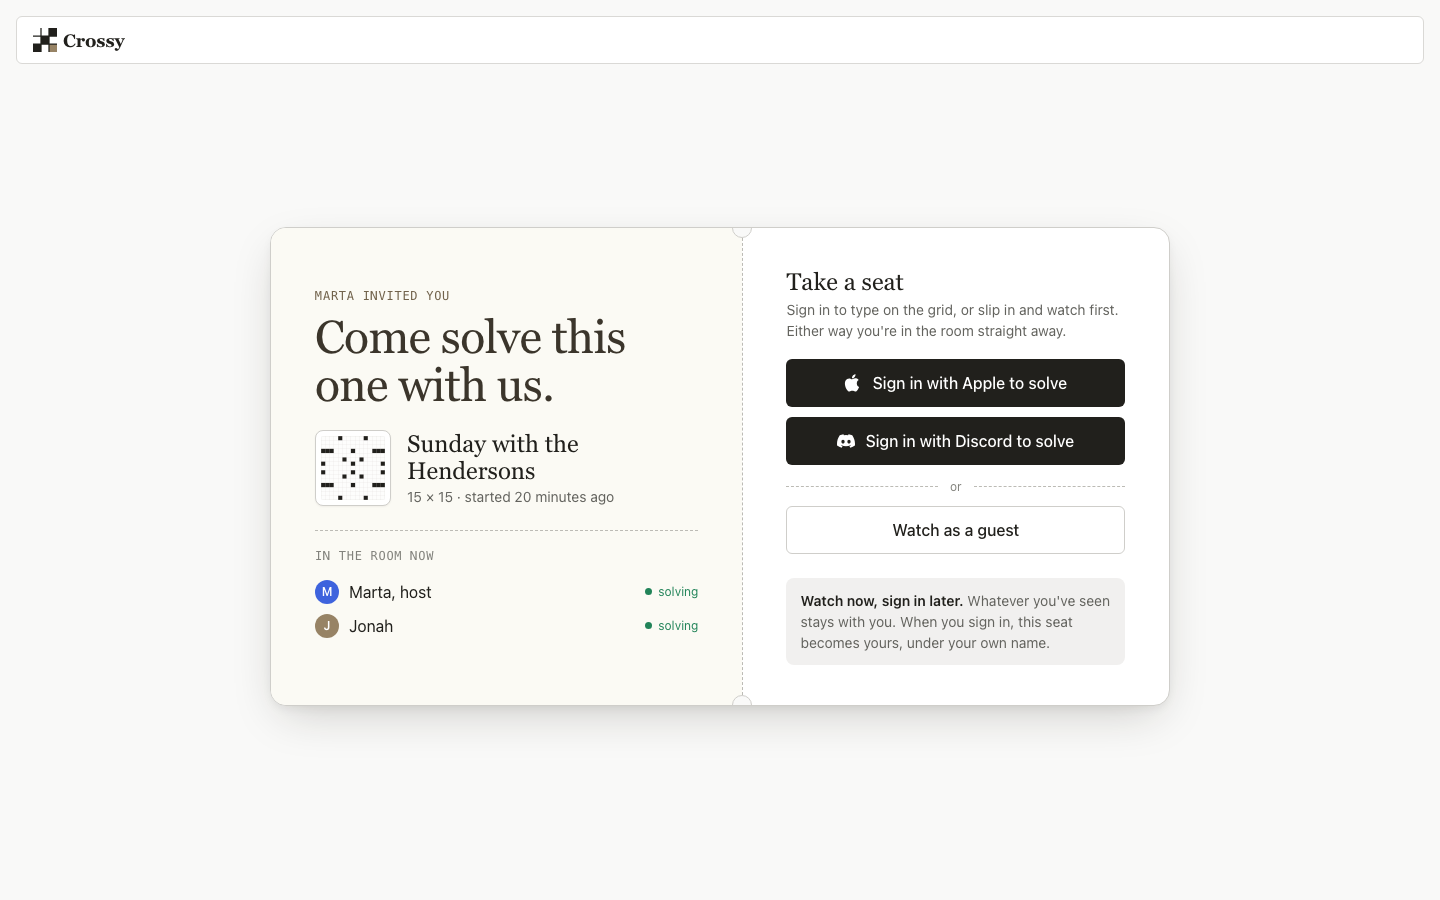
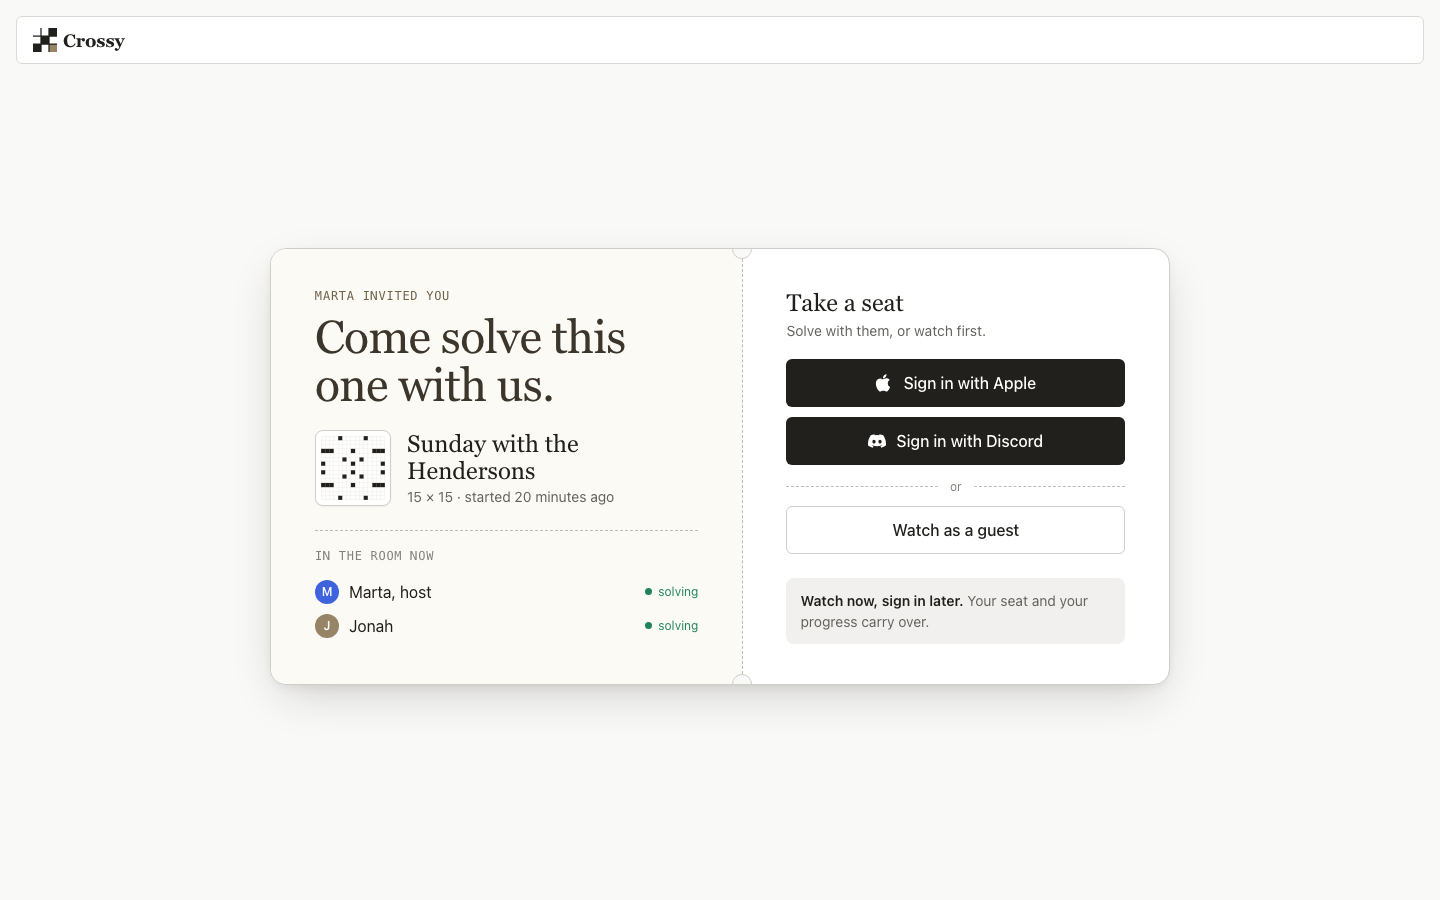
design(web): tighten the ticket copy (owner: too much AI-slop prose)
Cut the reassuring filler from the invitee gate: the sub drops to one
line that states the real choice, the sign-in buttons drop the redundant
"to solve", and the keep-seat box says the persist-on-upgrade fact once
instead of three sentimental clauses.

diff --git a/design/arrival-arc/c-ticket.invite.html b/design/arrival-arc/c-ticket.invite.html
@@ -455,10 +455,7 @@
 
         <div class="tray">
           <div class="title">Take a seat</div>
-          <p class="sub">
-            Sign in to type on the grid, or slip in and watch first. Either way
-            you're in the room straight away.
-          </p>
+          <p class="sub">Solve with them, or watch first.</p>
           <button class="btn btn-dark">
             <svg
               width="18"
@@ -471,7 +468,7 @@
                 d="M17.05 12.536c-.03-2.943 2.404-4.353 2.514-4.42-1.371-2.005-3.504-2.279-4.26-2.309-1.813-.183-3.54 1.068-4.458 1.068-.918 0-2.336-1.041-3.842-1.013-1.977.029-3.8 1.15-4.816 2.921-2.053 3.562-.525 8.83 1.474 11.72.977 1.414 2.141 3.001 3.667 2.944 1.472-.058 2.028-.953 3.807-.953 1.779 0 2.28.953 3.837.925 1.583-.029 2.585-1.442 3.552-2.861 1.119-1.643 1.579-3.234 1.606-3.317-.035-.016-3.083-1.184-3.114-4.695zM14.13 3.995c.812-.983 1.359-2.351 1.21-3.712-1.169.047-2.586.779-3.425 1.761-.752.871-1.411 2.263-1.234 3.598 1.303.101 2.636-.663 3.449-1.647z"
               />
             </svg>
-            Sign in with Apple to solve
+            Sign in with Apple
           </button>
           <button class="btn btn-dark">
             <svg
@@ -485,13 +482,13 @@
                 d="M20.317 4.369A19.79 19.79 0 0 0 15.432 3c-.21.375-.455.88-.624 1.28a18.27 18.27 0 0 0-5.617 0A12.6 12.6 0 0 0 8.56 3a19.7 19.7 0 0 0-4.886 1.372C.533 9.045-.32 13.6.099 18.087a19.9 19.9 0 0 0 6.063 3.058c.492-.669.93-1.38 1.307-2.127a12.9 12.9 0 0 1-2.06-.99c.173-.127.342-.26.505-.395a14.2 14.2 0 0 0 12.174 0c.165.14.334.272.505.395-.657.388-1.35.72-2.063.991.377.746.815 1.457 1.307 2.126a19.8 19.8 0 0 0 6.067-3.058c.492-5.2-.838-9.71-3.594-13.718ZM8.02 15.331c-1.183 0-2.157-1.085-2.157-2.419 0-1.333.955-2.42 2.157-2.42 1.21 0 2.176 1.096 2.157 2.42 0 1.334-.955 2.419-2.157 2.419Zm7.975 0c-1.183 0-2.157-1.085-2.157-2.419 0-1.333.955-2.42 2.157-2.42 1.21 0 2.176 1.096 2.157 2.42 0 1.334-.947 2.419-2.157 2.419Z"
               />
             </svg>
-            Sign in with Discord to solve
+            Sign in with Discord
           </button>
           <div class="divide">or</div>
           <button class="btn btn-ghost">Watch as a guest</button>
           <div class="keepseat">
-            <b>Watch now, sign in later.</b> Whatever you've seen stays with
-            you. When you sign in, this seat becomes yours, under your own name.
+            <b>Watch now, sign in later.</b> Your seat and your progress carry
+            over.
           </div>
         </div>
       </div>